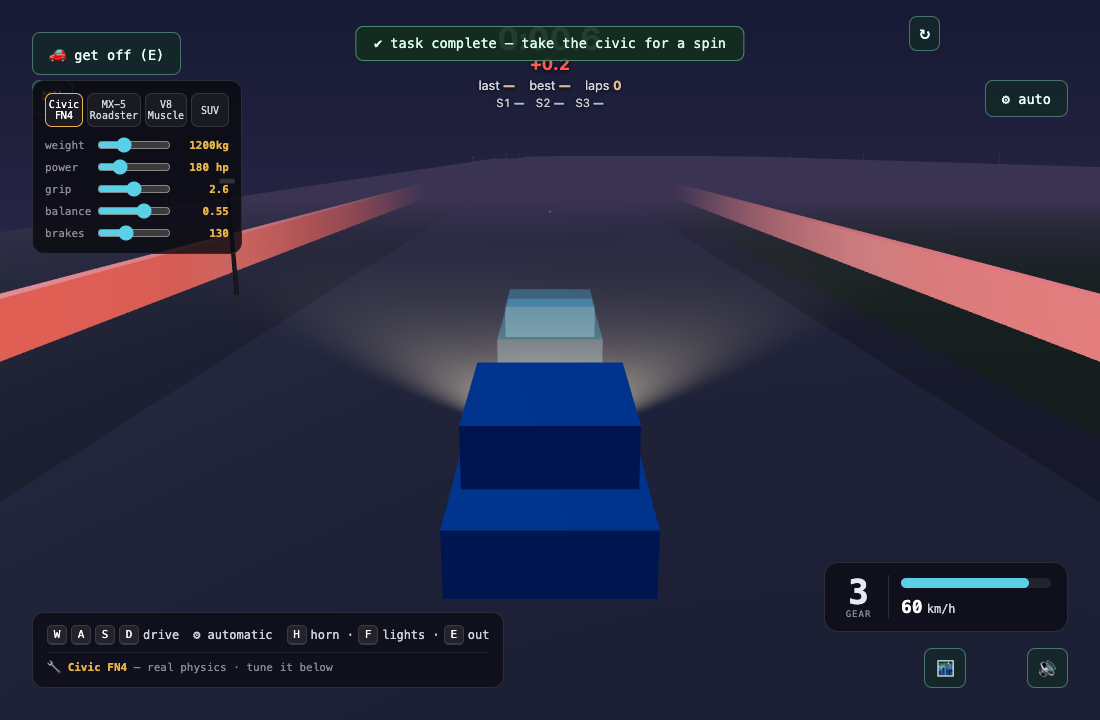
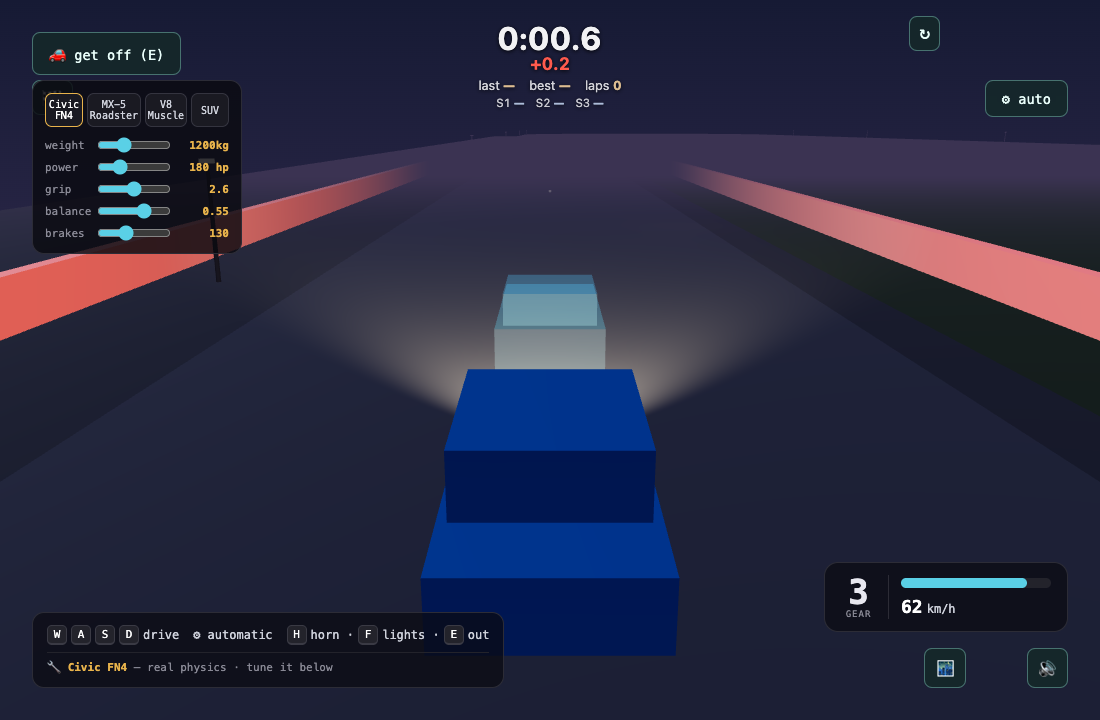
Make the ghost discoverable — HUD tells you how to get one
The ghost pipeline works (verified: a completed lap saves 86 samples + best,
and replays), but it only exists after you finish one full lap and there was
NO feedback saying so — hence 'I don't see the ghost'. Repurpose the delta slot
as guidance: show 'finish a lap to race a ghost' (dim hint) when none is
recorded, and the live +/- delta once you're racing one.

Changed region(s): [[0.0, 0.1833, 1.0, 0.5194], [0.3709, 0.3667, 0.6182, 0.9167], [0.34, 0.0306, 0.68, 0.0917]]

diff --git a/src/App.jsx b/src/App.jsx
@@ -260,23 +260,28 @@ function LapTimer({ vehiclesRef, driving, active }) {
     if (hudAcc.current > 0.1) {
       hudAcc.current = 0
       setTxt('lap-cur', fmtLap(t.current))
-      // live delta vs the ghost (nearest recorded point) — throttled to 10Hz so
-      // the search + the className style-recalc don't run every frame
-      if (started.current && ghost.current && ghost.current.length) {
-        let bd = Infinity
-        let bt = 0
-        for (const s of ghost.current) {
-          const dx = c.x - s.x
-          const dz = c.z - s.z
-          const d = dx * dx + dz * dz
-          if (d < bd) {
-            bd = d
-            bt = s.t
+      // the delta slot doubles as guidance: no ghost yet → tell the visitor how
+      // to get one; racing a ghost → live +/- delta (throttled to 10Hz so the
+      // nearest-point search + className style-recalc don't run every frame)
+      const e = document.getElementById('lap-delta')
+      if (e) {
+        const haveGhost = ghost.current && ghost.current.length
+        if (!haveGhost) {
+          e.textContent = 'finish a lap to race a ghost'
+          if (e.className !== 'lap-delta hint') e.className = 'lap-delta hint'
+        } else if (started.current) {
+          let bd = Infinity
+          let bt = 0
+          for (const s of ghost.current) {
+            const dx = c.x - s.x
+            const dz = c.z - s.z
+            const d = dx * dx + dz * dz
+            if (d < bd) {
+              bd = d
+              bt = s.t
+            }
           }
-        }
-        const delta = t.current - bt
-        const e = document.getElementById('lap-delta')
-        if (e) {
+          const delta = t.current - bt
           e.textContent = `${delta >= 0 ? '+' : ''}${delta.toFixed(1)}`
           const cls = 'lap-delta ' + (delta <= 0 ? 'ahead' : 'behind')
           if (e.className !== cls) e.className = cls

diff --git a/src/index.css b/src/index.css
@@ -678,6 +678,12 @@ body {
 .lap-hud .lap-delta.behind {
   color: #ff5a4d;
 }
+.lap-hud .lap-delta.hint {
+  font-size: 0.72rem;
+  font-weight: 500;
+  opacity: 0.65;
+  color: #cfe3ff;
+}
 .lap-hud .lap-sec {
   margin-top: 0.2rem;
   font-size: 0.72rem;
